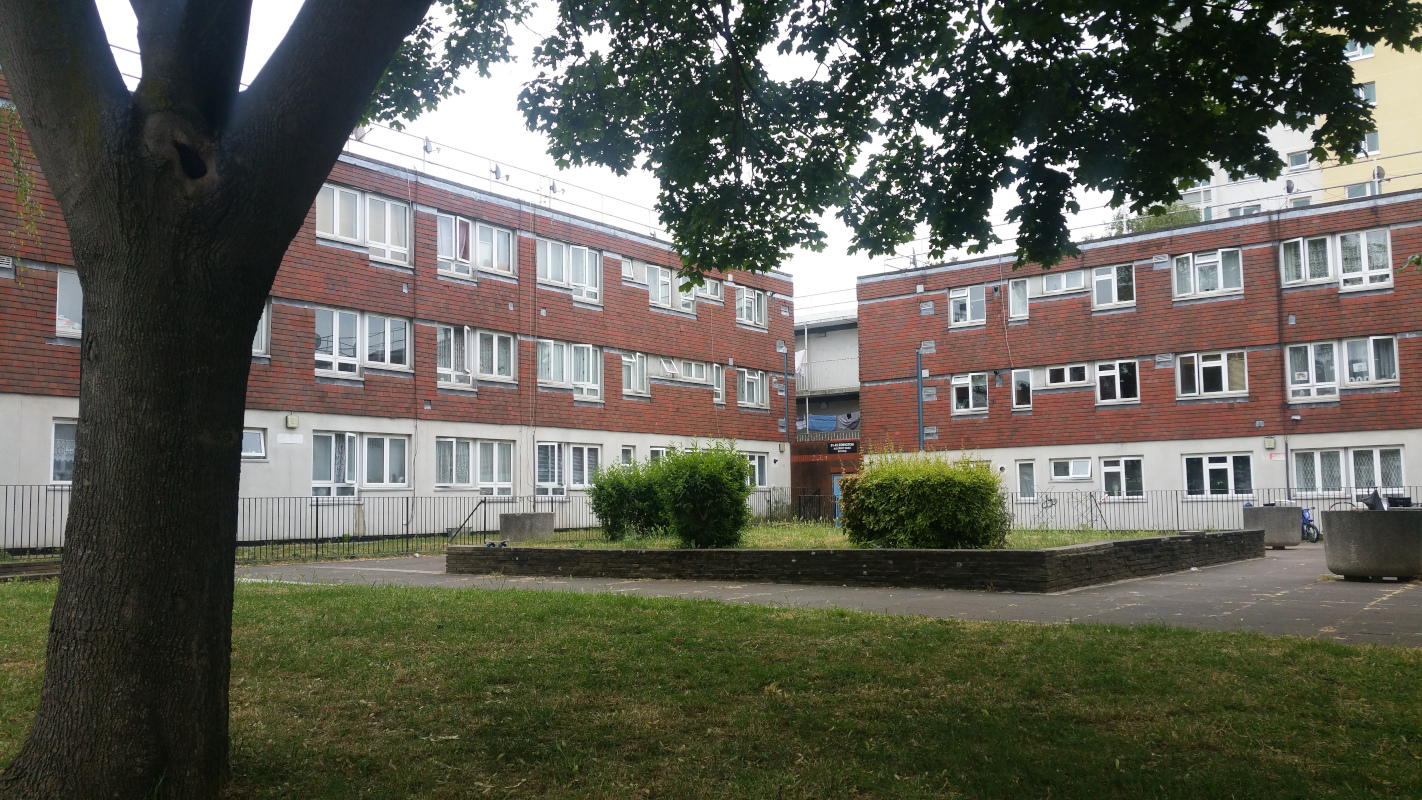
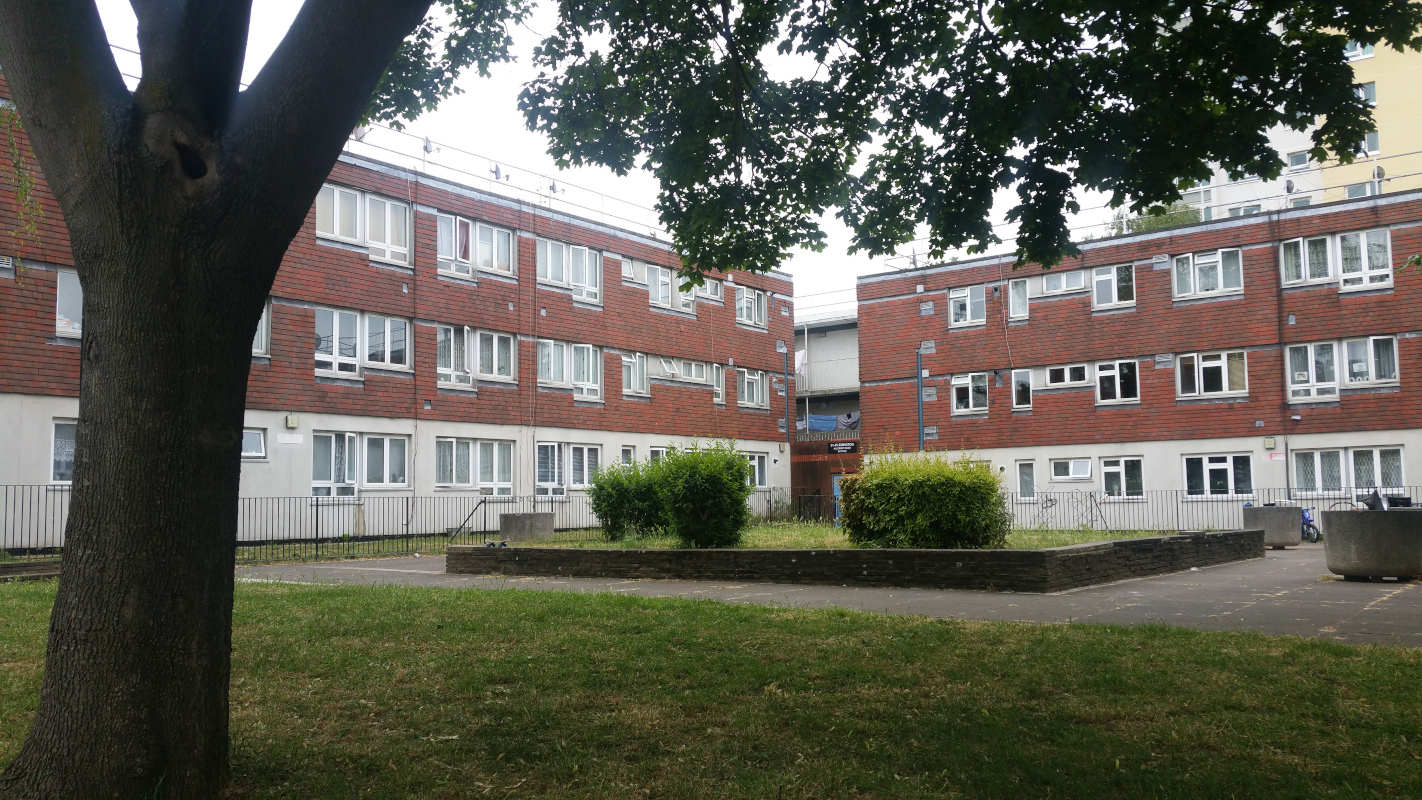
turner

diff --git a/_estates/haringey/turneravenue.md b/_estates/haringey/turneravenue.md
@@ -4,7 +4,7 @@ stage: Proposal
 name: Turner Avenue and Brunel Walk 
 borough: haringey
 images:
-  - image_path: /images/turner.png
+  - image_path: /images/turner.jpg
   - image_path: /images/turner1.png
   - image_path: /images/turner2.png
   - image_path: /images/turner3.png

diff --git a/_estates/towerhamlets/samuda.md b/_estates/towerhamlets/samuda.md
@@ -4,7 +4,7 @@ stage: Proposal
 name: Samuda estate
 borough: towerhamlets 
 images:
-  - image_path: /images/samuda1.png
+  - image_path: /images/samuda1.jpg
   - image_path: /images/samuda2.png
   - image_path: /images/samuda3.png
   - image_path: /images/samuda.jpg

diff --git a/_estates/barkinganddagenham/thamesview.md b/_estates/barkinganddagenham/thamesview.md
@@ -4,7 +4,7 @@ stage: Proposal
 name: Thames View estate 
 borough: barkinganddagenham
 images:
-  - image_path: /images/tv3.png
+  - image_path: /images/tv3b.jpg
   - image_path: /images/tv1.png
   - image_path: /images/tv2.png
   - image_path: /images/tv4.png

diff --git a/_estates/havering/waterlooroad.md b/_estates/havering/waterlooroad.md
@@ -4,7 +4,7 @@ stage: Preparation
 name: Waterloo Road estate 
 borough: havering
 images:
-  - image_path: /images/w1.png
+  - image_path: /images/w1.jpg
   - image_path: /images/w2.png
   - image_path: /images/w3.png
   - image_path: /images/w4.png

diff --git a/_estates/havering/royaljubilee.md b/_estates/havering/royaljubilee.md
@@ -4,7 +4,7 @@ stage: Proposal
 name: Royal Jubilee Court 
 borough: havering
 images:
-  - image_path: /images/royaljubileeaerial.png
+  - image_path: /images/royaljubileeaerial.jpg
 coordinates: 
   - 0.193341,51.585675
 ---
